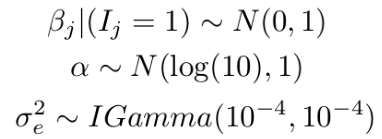
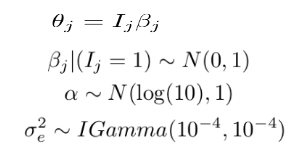
Update links for the different sections

Changed region(s): [[0.1233, 0.0576, 0.863, 0.6331], [0.0308, 0.6906, 0.9863, 0.9784]]

diff --git a/Modelling/poisson.md b/Modelling/poisson.md
@@ -1,8 +1,9 @@
-R Notebook
+Exploration and Boom Spike-Slab package
 ================
+Alex Cooper
 
 ``` r
-dat <- read.csv('simulated_data.csv')
+dat <- read.csv('../simulated_data.csv')
 ```
 
 Variance-covariance matrix of the data. It's pretty much diagonal!
@@ -133,8 +134,8 @@ fit.all <- stan_glm(y ~ ., data = dat, family = 'poisson',
     ## 
     ## SAMPLING FOR MODEL 'count' NOW (CHAIN 1).
     ## 
-    ## Gradient evaluation took 0.000105 seconds
-    ## 1000 transitions using 10 leapfrog steps per transition would take 1.05 seconds.
+    ## Gradient evaluation took 8.5e-05 seconds
+    ## 1000 transitions using 10 leapfrog steps per transition would take 0.85 seconds.
     ## Adjust your expectations accordingly!
     ## 
     ## 
@@ -151,15 +152,15 @@ fit.all <- stan_glm(y ~ ., data = dat, family = 'poisson',
     ## Iteration: 1800 / 2000 [ 90%]  (Sampling)
     ## Iteration: 2000 / 2000 [100%]  (Sampling)
     ## 
-    ##  Elapsed Time: 1.40391 seconds (Warm-up)
-    ##                0.872088 seconds (Sampling)
-    ##                2.276 seconds (Total)
+    ##  Elapsed Time: 1.2307 seconds (Warm-up)
+    ##                0.90481 seconds (Sampling)
+    ##                2.13551 seconds (Total)
     ## 
     ## 
     ## SAMPLING FOR MODEL 'count' NOW (CHAIN 2).
     ## 
-    ## Gradient evaluation took 5.8e-05 seconds
-    ## 1000 transitions using 10 leapfrog steps per transition would take 0.58 seconds.
+    ## Gradient evaluation took 5.5e-05 seconds
+    ## 1000 transitions using 10 leapfrog steps per transition would take 0.55 seconds.
     ## Adjust your expectations accordingly!
     ## 
     ## 
@@ -176,15 +177,15 @@ fit.all <- stan_glm(y ~ ., data = dat, family = 'poisson',
     ## Iteration: 1800 / 2000 [ 90%]  (Sampling)
     ## Iteration: 2000 / 2000 [100%]  (Sampling)
     ## 
-    ##  Elapsed Time: 0.889409 seconds (Warm-up)
-    ##                0.877589 seconds (Sampling)
-    ##                1.767 seconds (Total)
+    ##  Elapsed Time: 0.909829 seconds (Warm-up)
+    ##                0.886266 seconds (Sampling)
+    ##                1.79609 seconds (Total)
     ## 
     ## 
     ## SAMPLING FOR MODEL 'count' NOW (CHAIN 3).
     ## 
-    ## Gradient evaluation took 5.6e-05 seconds
-    ## 1000 transitions using 10 leapfrog steps per transition would take 0.56 seconds.
+    ## Gradient evaluation took 5.7e-05 seconds
+    ## 1000 transitions using 10 leapfrog steps per transition would take 0.57 seconds.
     ## Adjust your expectations accordingly!
     ## 
     ## 
@@ -201,15 +202,15 @@ fit.all <- stan_glm(y ~ ., data = dat, family = 'poisson',
     ## Iteration: 1800 / 2000 [ 90%]  (Sampling)
     ## Iteration: 2000 / 2000 [100%]  (Sampling)
     ## 
-    ##  Elapsed Time: 1.03895 seconds (Warm-up)
-    ##                0.864026 seconds (Sampling)
-    ##                1.90298 seconds (Total)
+    ##  Elapsed Time: 0.909054 seconds (Warm-up)
+    ##                0.912094 seconds (Sampling)
+    ##                1.82115 seconds (Total)
     ## 
     ## 
     ## SAMPLING FOR MODEL 'count' NOW (CHAIN 4).
     ## 
-    ## Gradient evaluation took 5.9e-05 seconds
-    ## 1000 transitions using 10 leapfrog steps per transition would take 0.59 seconds.
+    ## Gradient evaluation took 6.9e-05 seconds
+    ## 1000 transitions using 10 leapfrog steps per transition would take 0.69 seconds.
     ## Adjust your expectations accordingly!
     ## 
     ## 
@@ -226,9 +227,9 @@ fit.all <- stan_glm(y ~ ., data = dat, family = 'poisson',
     ## Iteration: 1800 / 2000 [ 90%]  (Sampling)
     ## Iteration: 2000 / 2000 [100%]  (Sampling)
     ## 
-    ##  Elapsed Time: 0.998411 seconds (Warm-up)
-    ##                0.865081 seconds (Sampling)
-    ##                1.86349 seconds (Total)
+    ##  Elapsed Time: 0.940246 seconds (Warm-up)
+    ##                0.925231 seconds (Sampling)
+    ##                1.86548 seconds (Total)
 
 ``` r
 summary(fit.all)
@@ -269,16 +270,16 @@ summary(fit.all)
     ## x.18              0.6     0.0     0.5     0.5     0.6     0.6     0.6
     ## x.19              0.5     0.0     0.5     0.5     0.5     0.5     0.5
     ## x.20              0.7     0.0     0.7     0.7     0.7     0.7     0.8
-    ## mean_PPD         40.1     0.6    38.9    39.6    40.1    40.5    41.3
-    ## log-posterior -2264.9     3.3 -2272.1 -2266.8 -2264.6 -2262.6 -2259.6
+    ## mean_PPD         40.1     0.6    38.8    39.6    40.1    40.5    41.3
+    ## log-posterior -2264.8     3.2 -2271.8 -2266.8 -2264.4 -2262.4 -2259.4
     ## 
     ## Diagnostics:
     ##               mcse Rhat n_eff
-    ## (Intercept)   0.0  1.0  1789 
+    ## (Intercept)   0.0  1.0  2263 
     ## x.1           0.0  1.0  4000 
     ## x.2           0.0  1.0  4000 
     ## x.3           0.0  1.0  4000 
-    ## x.4           0.0  1.0  3587 
+    ## x.4           0.0  1.0  4000 
     ## x.5           0.0  1.0  4000 
     ## x.6           0.0  1.0  4000 
     ## x.7           0.0  1.0  4000 
@@ -290,13 +291,13 @@ summary(fit.all)
     ## x.13          0.0  1.0  4000 
     ## x.14          0.0  1.0  4000 
     ## x.15          0.0  1.0  4000 
-    ## x.16          0.0  1.0  2583 
+    ## x.16          0.0  1.0  3015 
     ## x.17          0.0  1.0  4000 
     ## x.18          0.0  1.0  4000 
     ## x.19          0.0  1.0  4000 
-    ## x.20          0.0  1.0  2821 
+    ## x.20          0.0  1.0  3135 
     ## mean_PPD      0.0  1.0  4000 
-    ## log-posterior 0.1  1.0  1530 
+    ## log-posterior 0.1  1.0  1625 
     ## 
     ## For each parameter, mcse is Monte Carlo standard error, n_eff is a crude measure of effective sample size, and Rhat is the potential scale reduction factor on split chains (at convergence Rhat=1).
 
@@ -330,16 +331,16 @@ fit <- poisson.spike(y ~ ., data = dat, niter = niter,
                      prior = prior)
 ```
 
-    ## =-=-=-=-= Iteration 0 Sat Apr 14 15:59:24 2018 =-=-=-=-=
-    ## =-=-=-=-= Iteration 1000 Sat Apr 14 15:59:25 2018 =-=-=-=-=
-    ## =-=-=-=-= Iteration 2000 Sat Apr 14 15:59:26 2018 =-=-=-=-=
-    ## =-=-=-=-= Iteration 3000 Sat Apr 14 15:59:27 2018 =-=-=-=-=
-    ## =-=-=-=-= Iteration 4000 Sat Apr 14 15:59:28 2018 =-=-=-=-=
-    ## =-=-=-=-= Iteration 5000 Sat Apr 14 15:59:29 2018 =-=-=-=-=
-    ## =-=-=-=-= Iteration 6000 Sat Apr 14 15:59:30 2018 =-=-=-=-=
-    ## =-=-=-=-= Iteration 7000 Sat Apr 14 15:59:31 2018 =-=-=-=-=
-    ## =-=-=-=-= Iteration 8000 Sat Apr 14 15:59:32 2018 =-=-=-=-=
-    ## =-=-=-=-= Iteration 9000 Sat Apr 14 15:59:33 2018 =-=-=-=-=
+    ## =-=-=-=-= Iteration 0 Sat May  5 13:21:29 2018 =-=-=-=-=
+    ## =-=-=-=-= Iteration 1000 Sat May  5 13:21:30 2018 =-=-=-=-=
+    ## =-=-=-=-= Iteration 2000 Sat May  5 13:21:31 2018 =-=-=-=-=
+    ## =-=-=-=-= Iteration 3000 Sat May  5 13:21:32 2018 =-=-=-=-=
+    ## =-=-=-=-= Iteration 4000 Sat May  5 13:21:33 2018 =-=-=-=-=
+    ## =-=-=-=-= Iteration 5000 Sat May  5 13:21:34 2018 =-=-=-=-=
+    ## =-=-=-=-= Iteration 6000 Sat May  5 13:21:36 2018 =-=-=-=-=
+    ## =-=-=-=-= Iteration 7000 Sat May  5 13:21:37 2018 =-=-=-=-=
+    ## =-=-=-=-= Iteration 8000 Sat May  5 13:21:39 2018 =-=-=-=-=
+    ## =-=-=-=-= Iteration 9000 Sat May  5 13:21:40 2018 =-=-=-=-=
 
 ``` r
 summary(fit)

diff --git a/README.md b/README.md
@@ -5,16 +5,25 @@ Bayes on the Beach Workshop 2017
 Workshop Aims:
 --------------
 
--   Review some Bayesian Variable Selection methods (O’Hara and Sillanpaa sugested material)
--   Some coding in R (Visualisation | Coding | Methods)
+-   Review some Bayesian Variable Selection methods (O’Hara and Sillanpaa suggested material)
+-   Some coding in R (Visualization | Coding | Methods)
 -   Analysis of a simple model with variable selection.
 
-The task
+### Pages to visit
+
+The Workshop is now complete. Thanks to all the participants: Sam, Grace, Anton, Saras, Anthony, Nick Golding, Leah, Andres for a great workshop!
+
+-   [An example solution](Example-Solution/Example-Kuo-Mallick.md)
+-   [Resources for the workshop](Slides-And-Resources/README.md)
+-   [Sour dough (Variable selection visualisation)](Visualisation/sourdough.md)
+-   [Exploration and modelling](Modelling/poisson.md)
+
+The Task
 --------
 
 ### Data Model:
 
-<img src="datamodel.png" width="220px" style="display: block; margin: auto;" />
+<img src="datamodel.png" width="290px" style="display: block; margin: auto;" />
 
 R code for simulation from data model (O’Hara and Sillanpaa):
 
@@ -41,14 +50,16 @@ dataset <- data.frame(y=y, x=x)
 #write.csv(x = dataset, file = "simulated_data.csv", row.names = F)
 ```
 
-The regression parameters *θ*<sub>*j*</sub> have a mean of 0.3, rough range (0, 0.6). While not exact zeros, the aim is to investigate the inference (eg probability of inclusion) and sparse estiamtion in Bayesian framework.
+The regression parameters *θ*<sub>*j*</sub> have a mean of 0.3, rough range (0, 0.6). While not exact zeros, the aim is to investigate the inference (eg probability of inclusion) and sparse estimation in Bayesian framework.
 
 ``` r
 #plot(1:length(theta), theta, xlab = "Regression parameter", ylab = "Theta")
 ```
 
-### Modelling
+### Modelling for variable seleciton
 
-Priors for the model (eq. 3, 4 of O’Hara and Sillanpaa) <img src="priors.png" width="220px" style="display: block; margin: auto;" />
+Recommended priors for the model (eq. 3, 4 of O’Hara and Sillanpaa)
 
-Methods implemented in Bugs were provided in supplment for the original paper. See [supplement.html](supplement.html).
+<img src="priors.png" width="370px" style="display: block; margin: auto;" />
+
+Each *θ*<sub>*j*</sub> has a spike-slab prior with spike at zero and slab elsewhere. Introduce an auxilary indicator to indicate presence of vat variable and auxilary *β*<sub>*j*</sub> to indicate effect size.

diff --git a/Slides-And-Resources/README.md b/Slides-And-Resources/README.md
@@ -1,0 +1,9 @@
+
+Resources
+=========
+
+-   **BVS-methods-survey.pdf** "A Review of Bayesian Variable Selection Methods: What, How and Which" by R.B. O'Hara and M. J. Sillanpaa (2009). While old it provides a suitable introduction to the basic Bayesian Variable Seleciton methods.
+
+-   **supplement.html** Supplement material for the BVS survey. The supplement contains bugs code for a related variable selection problem. This can be used as a launching pad for implementing the methods for the simulated example.
+
+-   **BVS-WKSHOP.pdf** Slides for the introduction to the workshop.
